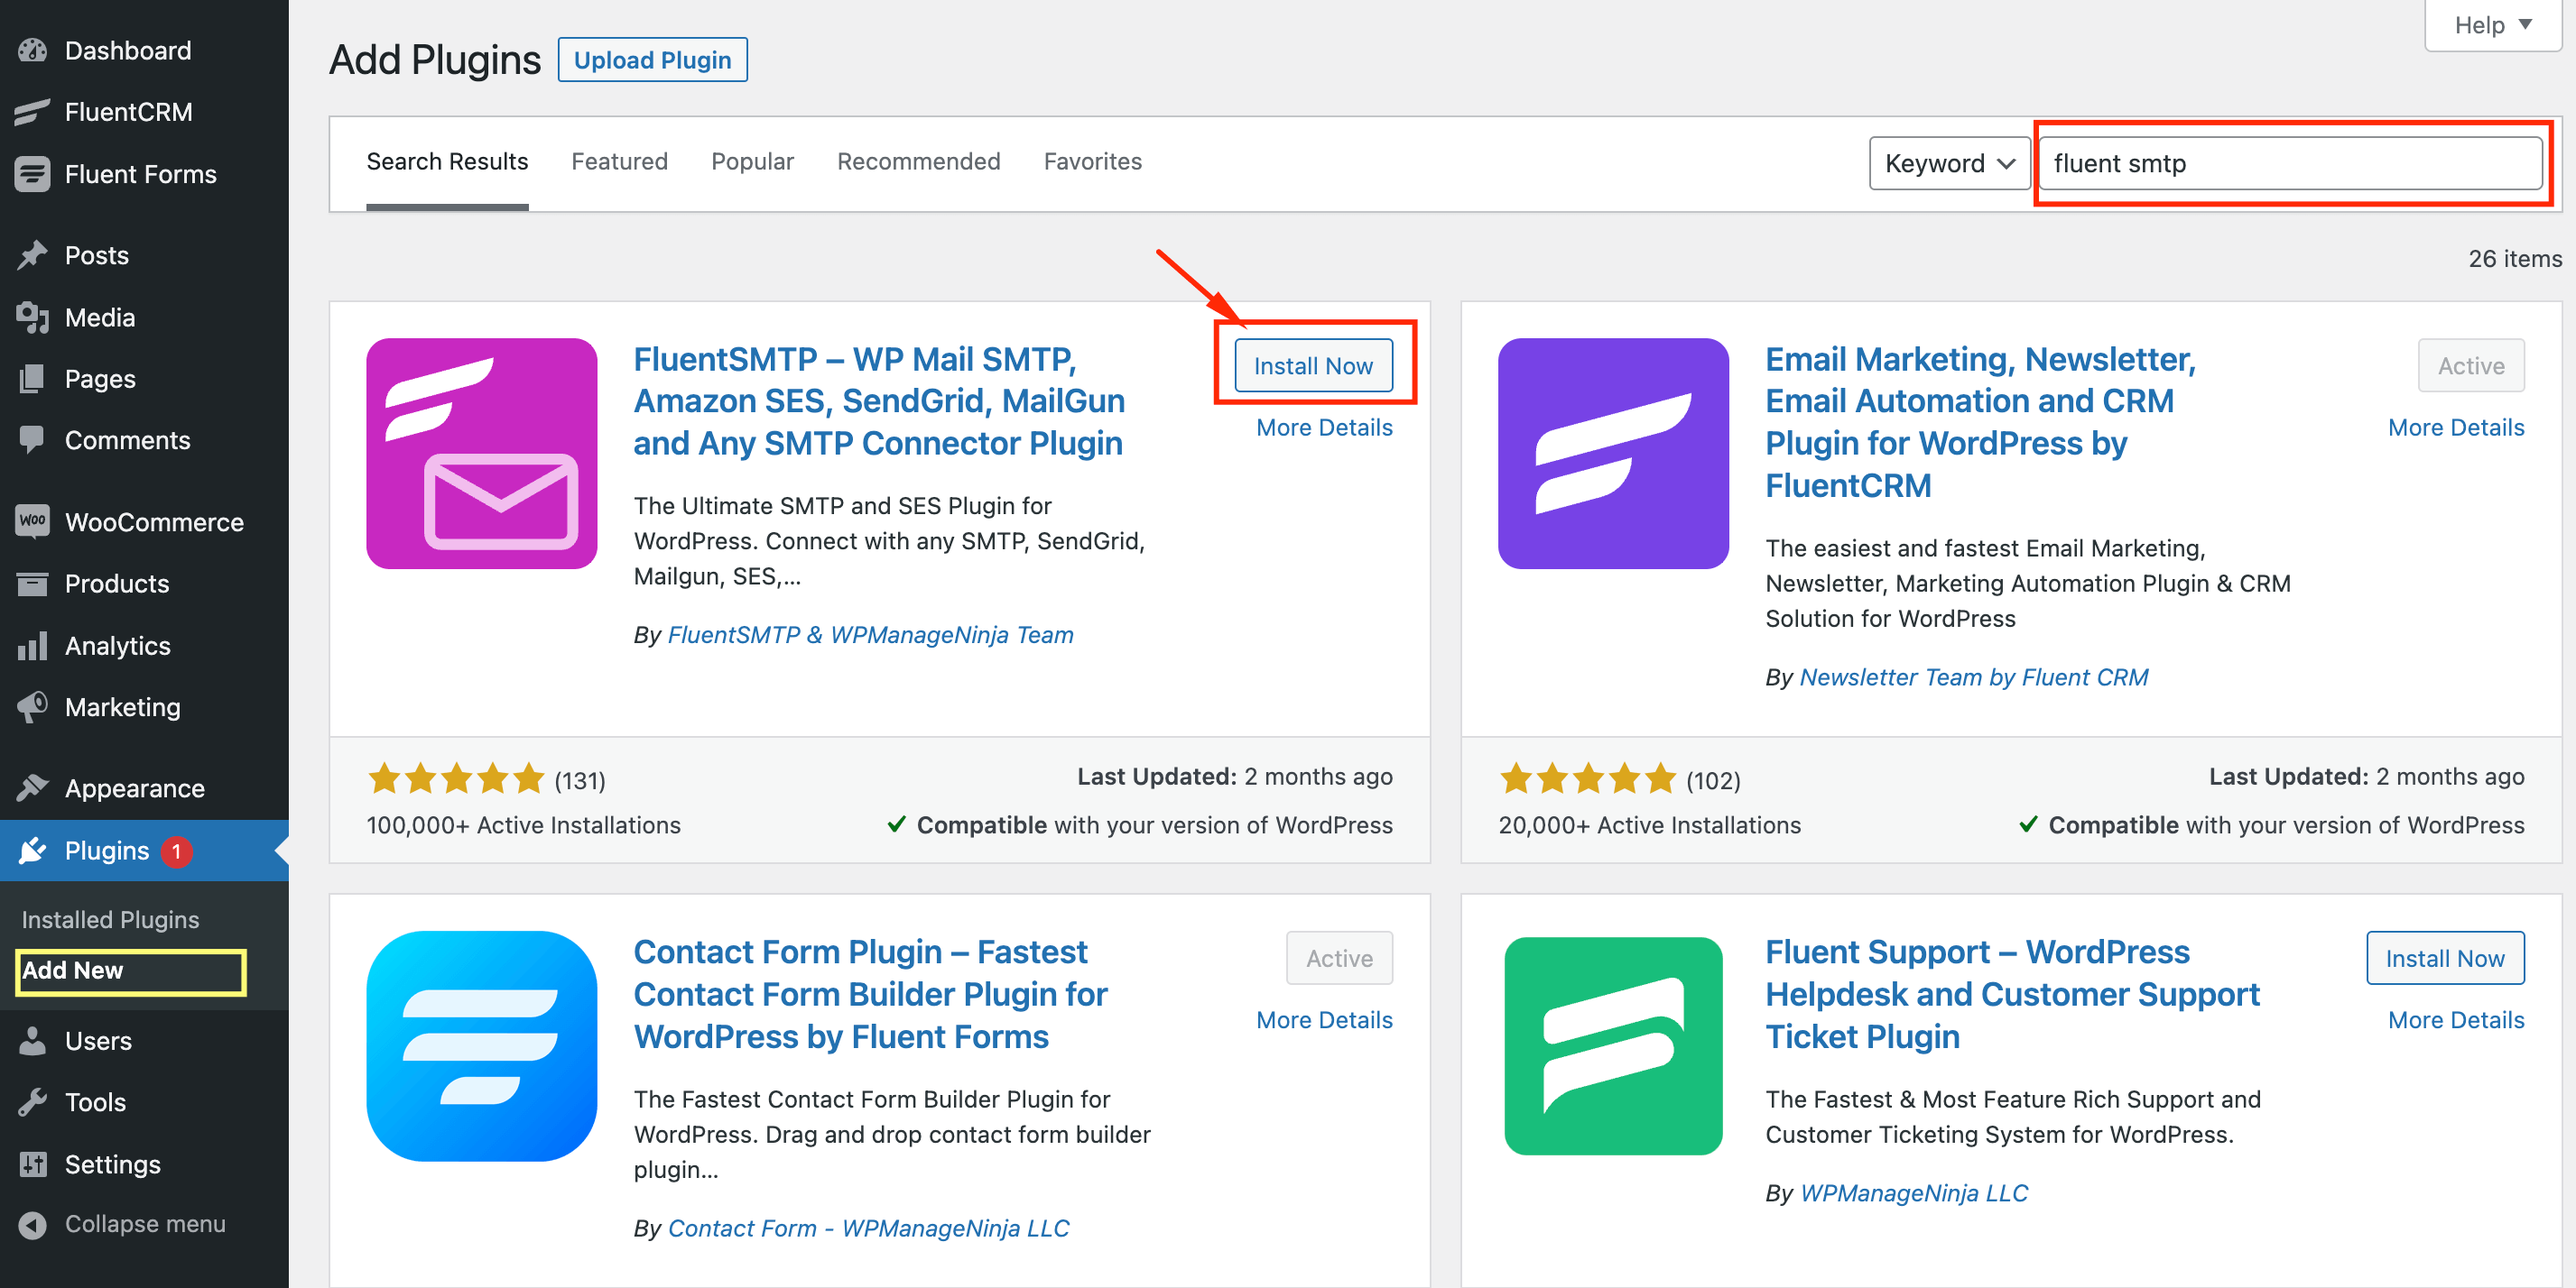
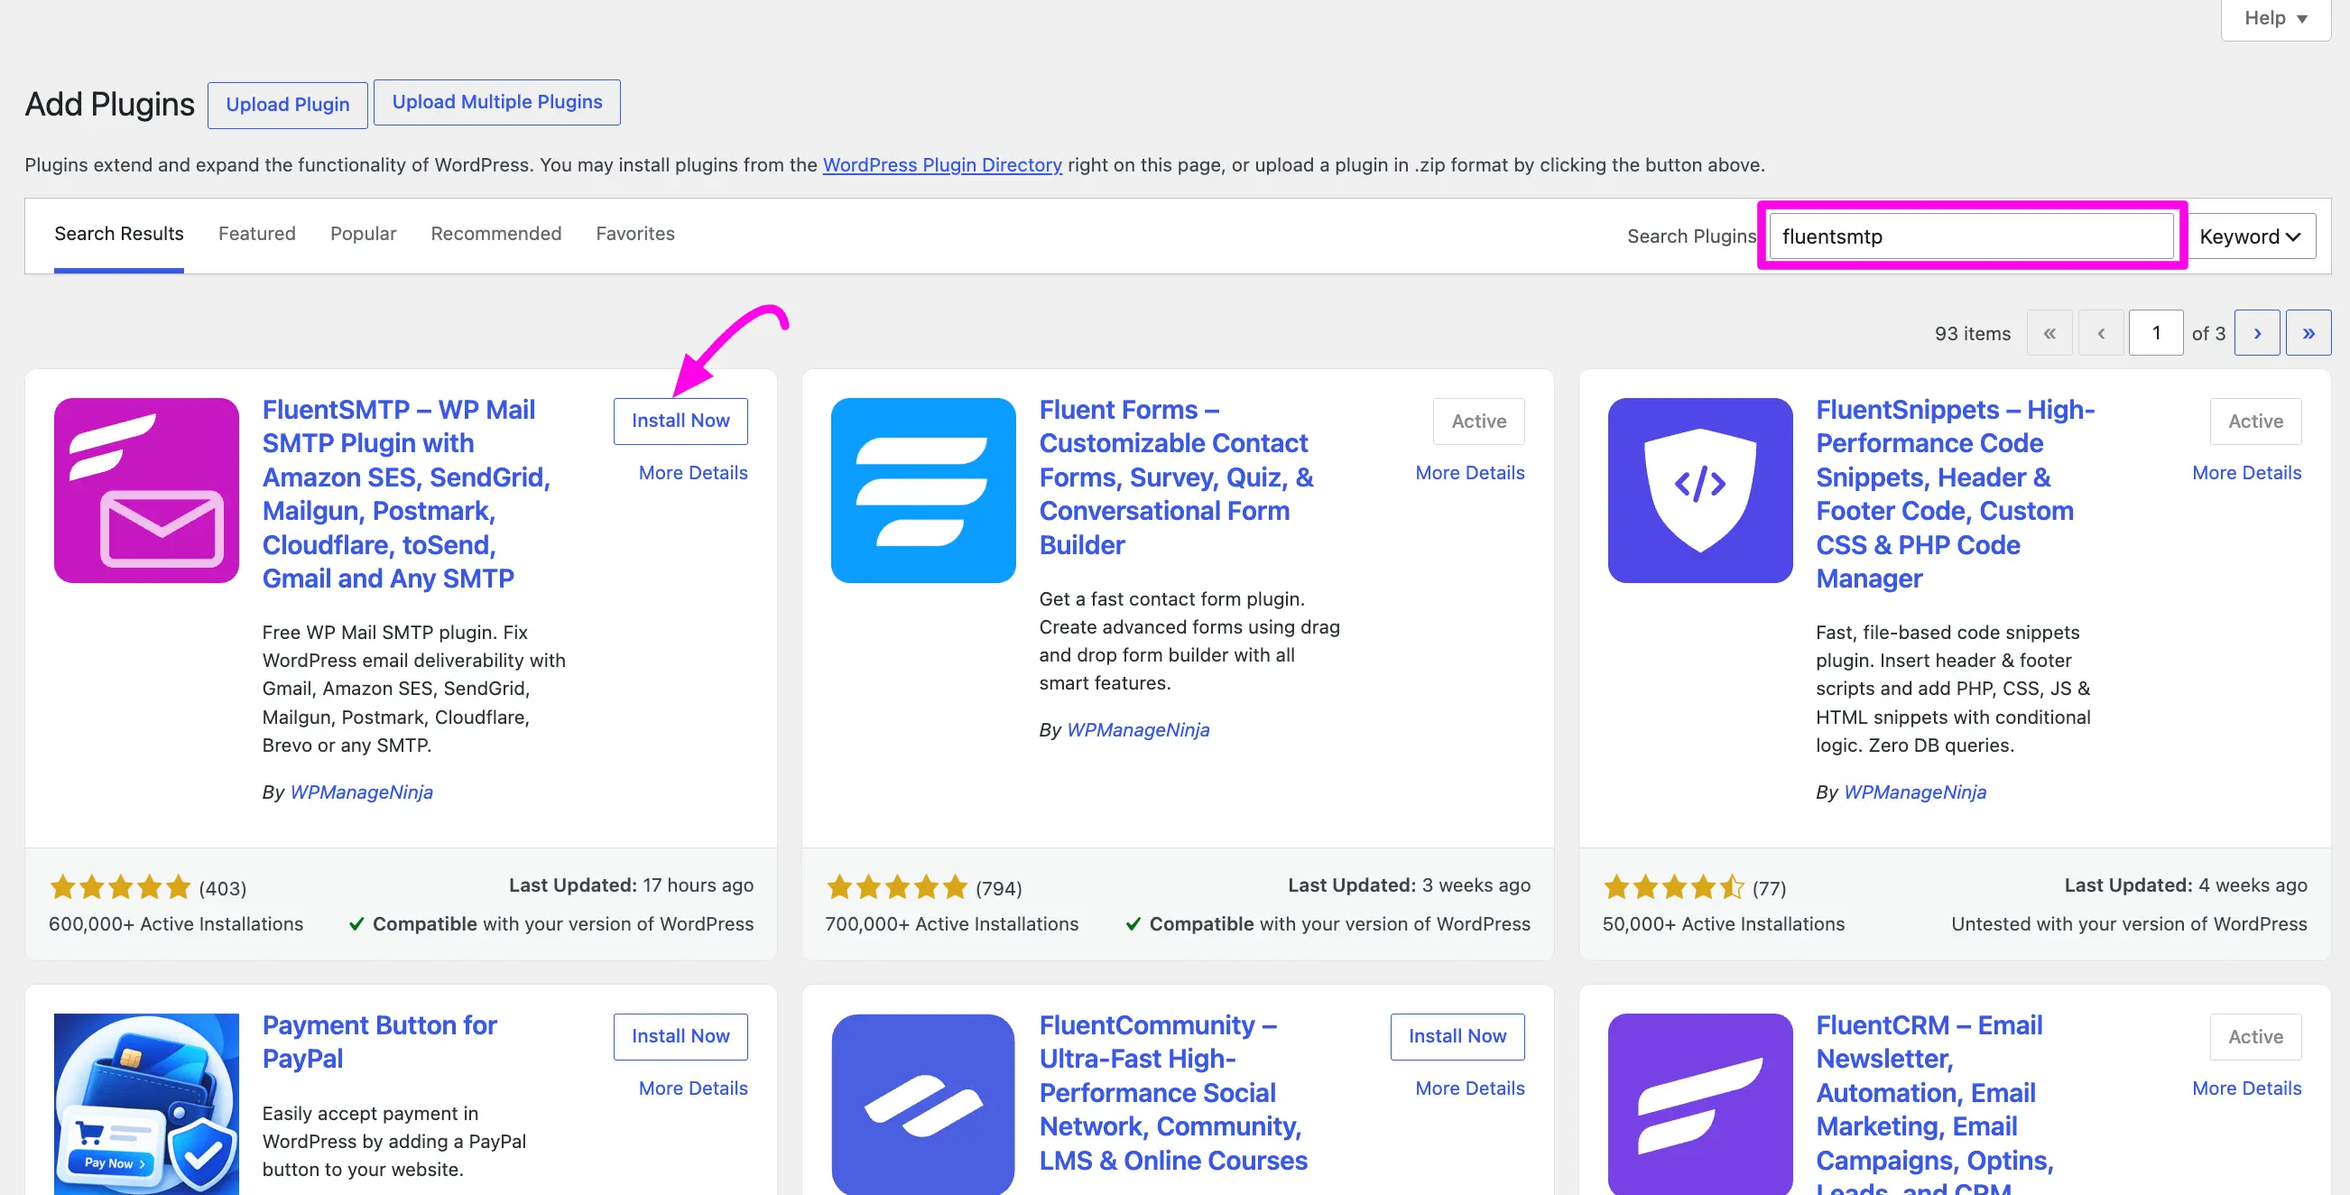
rewrite and image update Install and Activate FluentSMTP doc

diff --git a/docs/getting-started/install-and-activate-fluentsmtp.md b/docs/getting-started/install-and-activate-fluentsmtp.md
@@ -1,45 +1,52 @@
 # Install and Activate FluentSMTP
 
-The FluentSMTP plugin fixes your email delivery issue by connecting WordPress Mail with your email service providers. These integrations are native, so they will send the emails super fast.
+FluentSMTP takes over `wp_mail` and sends through an email service you connect. Until you add a connection, WordPress still uses whatever your host left behind, which is why contact form and password-reset mail often never arrives. Learn how to install and activate FluentSMTP by following the steps below –
 
-This plugin will solve all your email deliverability problems. FluentSMTP is the ultimate WP Mail Plugin that connects with your Email Service Provider natively and makes sure your emails are delivered properly.
+## Requirements
 
-## FluentSMTP Requirements
+- WordPress 6.5 or later
+- PHP 7.4 or later
 
-To use FluentSMTP, you need:
-– WordPress 4.5 or later
-– PHP version 5.6 or later
+## Install from the Dashboard
 
-## Install & Activate the FluentSMTP Plugin from the Dashboard
+1. In WordPress, go to **Plugins → Add Plugin**.
+2. Search for **fluentsmtp**.
+3. Find **FluentSMTP - WP SMTP Plugin** by **WPManageNinja**.
+4. Click the **Install Now** button, then click **Activate**.
 
-The very first step to setting up FluentSMTP is to install the plugin on your WordPress website. 
+![Searching for FluentSMTP on the Add Plugins screen](/images/getting-started/install-and-activate-fluentsmtp/fluent-smtp-install.webp)
 
-To do so, in your WordPress dashboard, select **Plugins > Add New** from the menu. Then type *Fluent SMTP* into the search function. Once the FluentSMTP plugin is displayed, click on **Install Now** button.
+The button changes to **Activate** once the install finishes.
 
-![Fluent Smtp Install](/images/getting-started/install-and-activate-fluentsmtp/fluent-smtp-install.webp)
+![Activate button on the Add Plugins screen](/images/getting-started/install-and-activate-fluentsmtp/fluent-smtp-activate-2.webp)
 
-Once FluentSMTP is installed, then please click on the **Activate** button to make it active on the WordPress website.
+> **Note:** If another SMTP plugin is already active, WordPress will tell you. FluentSMTP should be the only plugin sending mail — deactivate the other SMTP plugin first, or you will get double-sending and confusing logs.
 
-![Fluent Smtp Activate](/images/getting-started/install-and-activate-fluentsmtp/fluent-smtp-activate.webp)
+> **Note:** If FluentSMTP is already active and you search for another SMTP plugin, FluentSMTP shows a notice: "You already have an SMTP plugin." That is the plugin protecting you from installing a second mailer — go to its settings instead.
 
-## Install & Activate FluentSMTP Manually
+After activation, go to **Settings → FluentSMTP**. That is the plugin screen — it is not a top-level menu.
 
-FluentSMTP can be installed on your site from the official WordPress plugin repository. You can also download the plugin from [wordpress.org](https://wordpress.org/plugins/fluent-smtp/) and install it on your WordPress site manually.
+![FluentSMTP row with Settings link in the Installed Plugins list](/images/getting-started/install-and-activate-fluentsmtp/fluent-smtp-active-5.webp)
 
-![Fluent Smtp Wordpress](/images/getting-started/install-and-activate-fluentsmtp/fluent-smtp-wordpress.webp)
+## Install from a Zip
 
-To manually install & activate FluentSMTP you need to download and upload the package to your WordPress and the steps are: 
+Use this if you cannot reach wordpress.org from the site, or you are installing a specific build.
 
-1. Go to [wordpress.org](https://wordpress.org/plugins/fluent-smtp/)
-2. Download the plugin by clicking on the **Download** button
-3. Go back to your **WordPress Dashboard** → **Add New** → **Upload** Plugin.
-4. Select the **.zip** file you just downloaded earlier, and click on **Install Now**.
-5. After installing, go ahead and click on the **Activate** button.
+1. Download the zip from [wordpress.org/plugins/fluent-smtp](https://wordpress.org/plugins/fluent-smtp).
 
-![Fluent Smtp Install Manually](/images/getting-started/install-and-activate-fluentsmtp/fluent-smtp-install-manually.webp)
+![Download button on the FluentSMTP WordPress.org plugin page](/images/getting-started/install-and-activate-fluentsmtp/fluent-smtp-wordpress-3.webp)
 
- And once it is activated, it will be listed under your **Active Plugins** as below:
+2. Go to **Plugins → Add Plugin → Upload Plugin**.
+3. Choose the zip, click **Install Now**, then click **Activate**.
 
-![Fluent Smtp Active](/images/getting-started/install-and-activate-fluentsmtp/fluent-smtp-active.webp)
+![Selected zip file and Install Now button on the Upload Plugin screen](/images/getting-started/install-and-activate-fluentsmtp/fluent-smtp-install-manually-4.webp)
 
-That's all for installing and activating FluentSMTP on your WordPress website. Now please follow and check out more about FluentSMTP documentation to configure your desired Email Delivery Provider and send out emails from your WordPress Website. Please follow [Configurable Email Delivery Providers](/configurable-email-delivery-providers) documentation to know how to configure different email delivery providers and which method to use for them.
+The plugin then appears under **Settings → FluentSMTP**.
+
+## What You Should See Next
+
+On a site with no connection yet, FluentSMTP opens a first-run wizard: pick a provider, fill the form, save. On a site that already has a connection, you get the dashboard.
+
+![FluentSMTP dashboard after a connection exists](/images/getting-started/install-and-activate-fluentsmtp/fluent-smtp-dashboard-6.webp)
+
+Next: choose an [email service](/configurable-email-delivery-providers) and save a connection. Then send a test from **Send Test Email** in the top bar.
